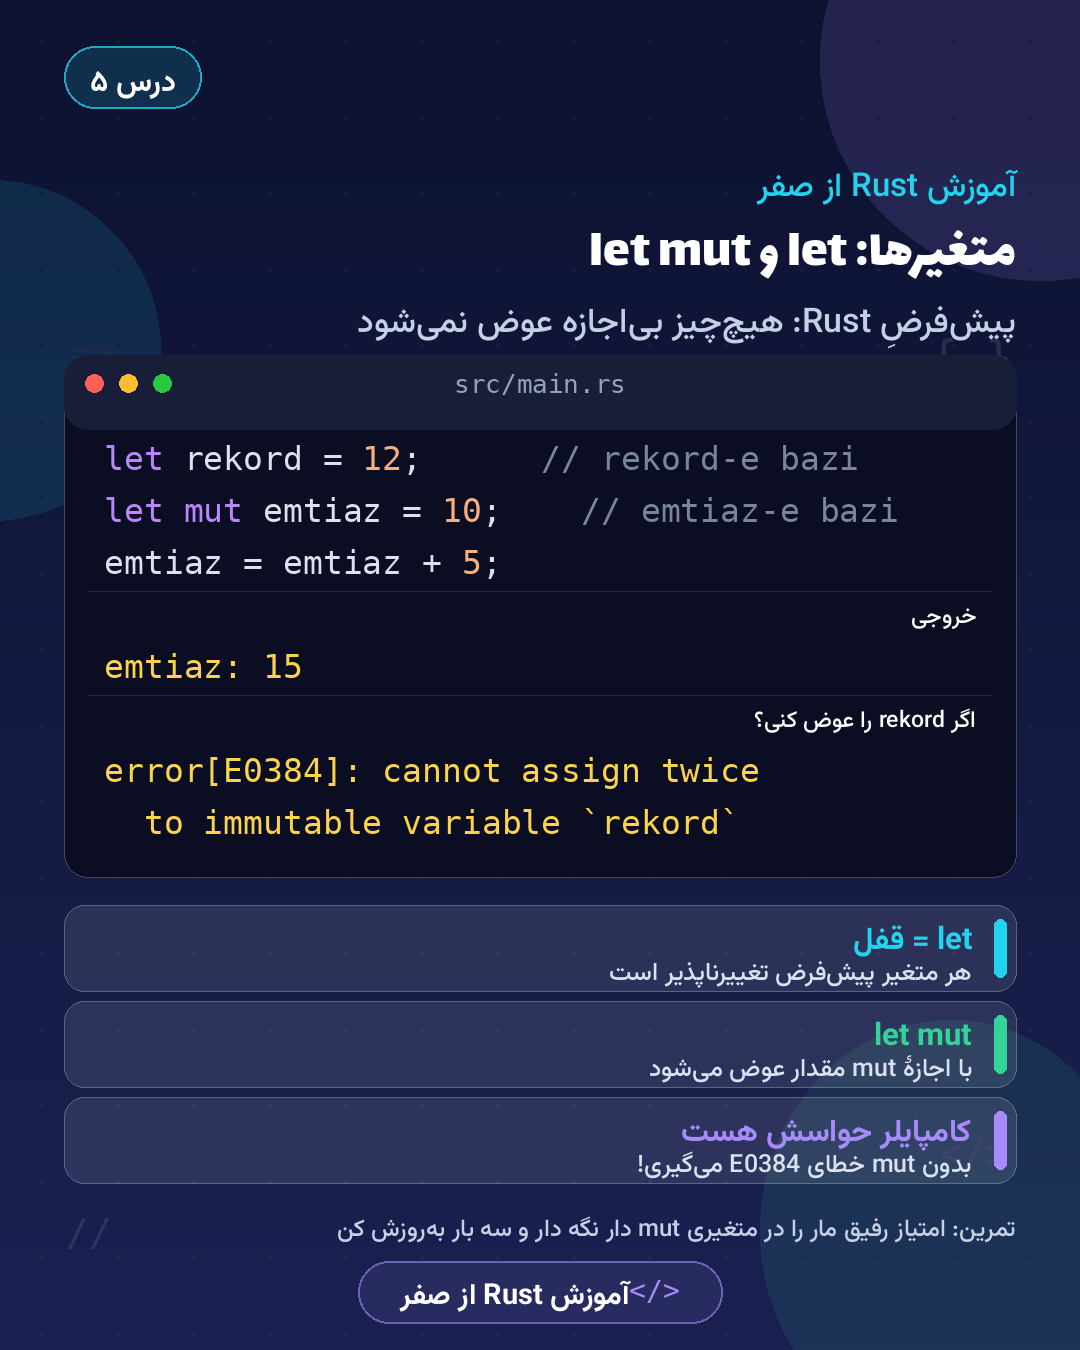
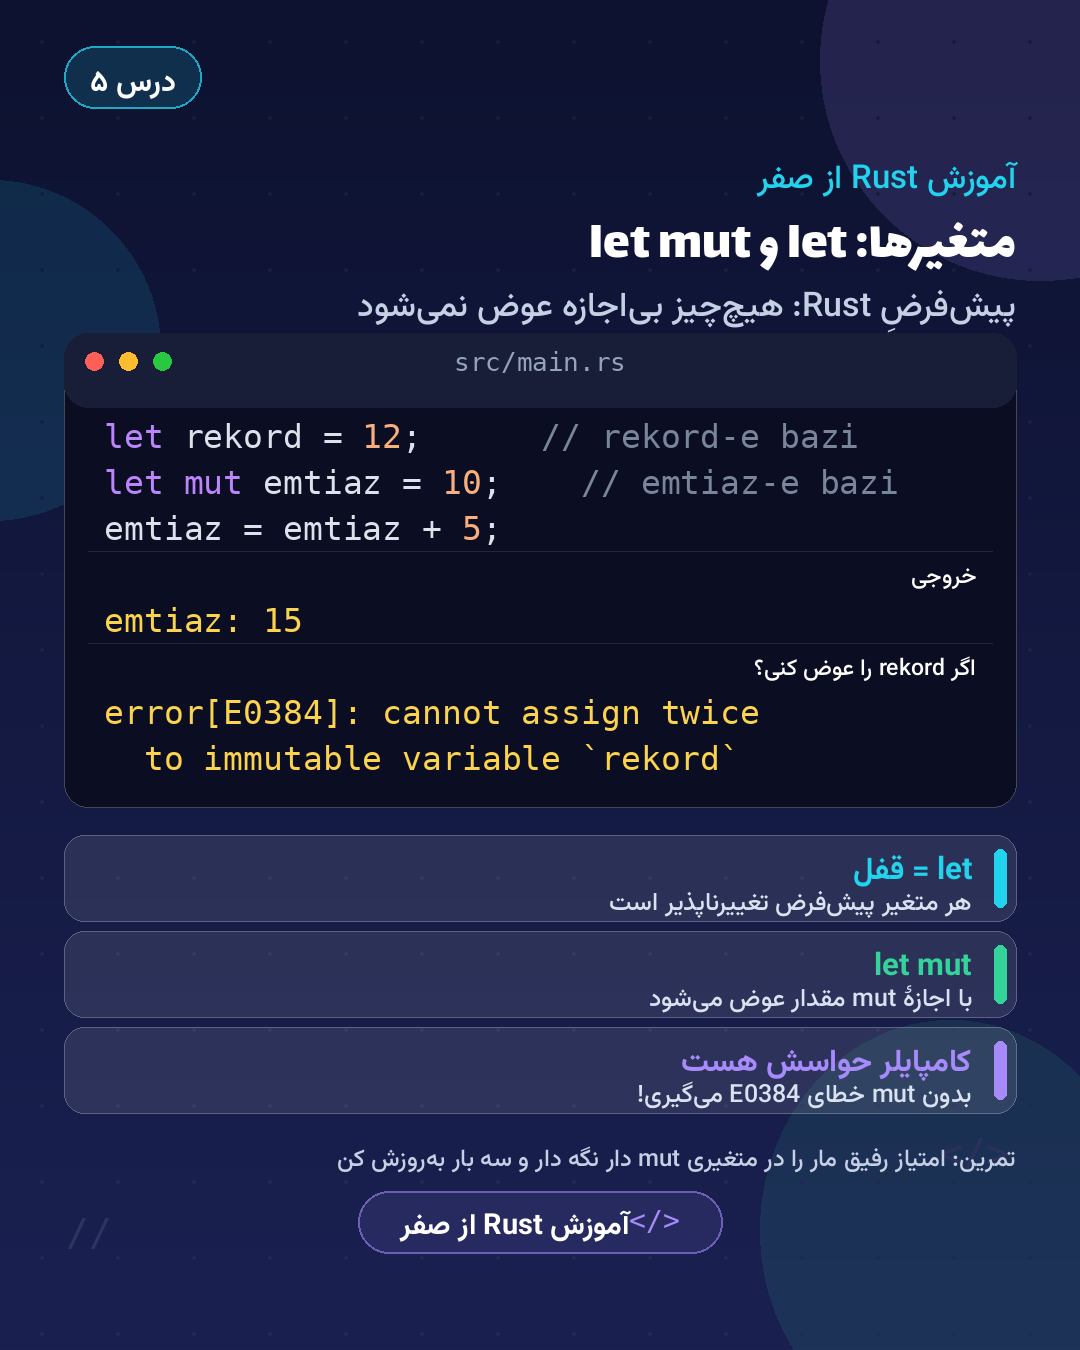
gardesh 20: khod-tarim (bootstrap env-restore + bashrc hook + 2 cron-e sobhgahi) + nam-e madrese zir-e onvan-e tamame poster-ha (tas-e malek) + halghe item-e post-e kharazmi (#moarrefi_moshahir) + rahnamaye-tag (sanad-e rasmi hestegh) + tozih tagvim dar plan.md

diff --git a/scripts/poster_lib.py b/scripts/poster_lib.py
@@ -42,6 +42,7 @@ CHANNEL = {
     "brand_name": "انجمن کدنویسی",
     "footer_label": "کانال انجمن کدنویسی",
     "handle": "@anjomanfaghihi",
+    "school": "مدرسهٔ شهید فقیهی",
 }
 LOGO_PATH = Path("")
 
@@ -54,6 +55,7 @@ def set_channel(cfg):
         "brand_name": cfg.get("brand_name", "انجمن کدنویسی"),
         "footer_label": cfg.get("footer_label", "کانال انجمن کدنویسی"),
         "handle": cfg.get("handle", "@anjomanfaghihi"),
+        "school": cfg.get("school", ""),
     }
     logo = cfg.get("_logo_path")
     LOGO_PATH = Path(logo) if logo else Path("")
@@ -324,14 +326,20 @@ def render(spec, out_path, brand=True):
     if spec.get("lesson_no"):
         lesson_chip(d, 46, spec["lesson_no"])
     # فاصلهٔ استاندارد بین ردیف بالا و متنها (اصلاح بازخورد: نزدیک نبودن برند به متن)
-    y = 46 + 62 + 54
+    y = 46 + 62 + 46
     rtl_right(d, spec["series_label"], font("fa_med", 33), ACCENT, W - MARGIN, y)
     y += 50
     tsize = spec.get("title_size", 62)
     rtl_right(d, spec["title"], font("fa_title", tsize), WHITE, W - MARGIN, y)
-    y += int(tsize * 1.22) + 20
+    y += int(tsize * 1.22) + 12
+    # ← بازخورد سردبیر (۱۴۰۵-۰۸-۰۲): «اسم زیر عنوان» — خط نام انجمن و مدرسه
+    # درست زیر عنوانِ همهٔ پوسترها (فقط نسخهٔ برند؛ نسخهٔ clean بدون نام میماند)
+    if brand and CHANNEL.get("school"):
+        rtl_right(d, f"{CHANNEL['brand_name']} | {CHANNEL['school']}",
+                  font("fa_med", 27), MUTED, W - MARGIN, y)
+        y += 34
     rtl_right(d, spec["subtitle"], font("fa_med", 34), SUB, W - MARGIN, y)
-    y += 58
+    y += 52
     sections = spec["sections"] if brand else spec.get("clean_sections", spec["sections"])
     for sec in sections:
         if sec["type"] == "code":
@@ -370,6 +378,8 @@ def spec_text(spec):
     if spec.get("lesson_no"):
         head += f" — درس {fa_num(spec['lesson_no'])}"
     L.append(head)
+    if CHANNEL.get("school"):
+        L.append(f"{CHANNEL['brand_name']} | {CHANNEL['school']}")
     L.append("")
     L.append(spec["subtitle"])
     L.append("")

diff --git a/channels/coding/content/queue/lessons/rust-dars-05-moteghayer/spec.py b/channels/coding/content/queue/lessons/rust-dars-05-moteghayer/spec.py
@@ -15,7 +15,7 @@ SPEC = {
     "subtitle": "پیشفرضِ Rust: هیچچیز بیاجازه عوض نمیشود",
     "clean_footer": "آموزش Rust از صفر",
     "sections": [
-        {"type": "code", "name": "src/main.rs", "lines": [
+        {"type": "code", "name": "src/main.rs", "lh": 46, "lines": [
             {"segs": [T("let", FN), T(" rekord = ", FG), T("12", NUM), T(";", FG), T("      // rekord-e bazi", CMT)]},
             {"segs": [T("let mut", FN), T(" emtiaz = ", FG), T("10", NUM), T(";", FG), T("    // emtiaz-e bazi", CMT)]},
             {"segs": [T("emtiaz = emtiaz + ", FG), T("5", NUM), T(";", FG)]},

diff --git a/channels/coding/content/plan.md b/channels/coding/content/plan.md
@@ -38,6 +38,10 @@
 هشتگ ثابت پای همه پستها: `#انجمن_کدنویسی`
 هشتگ موضوعی متناسب با موضوع هر پست در کپشن میآید.
 
+> **⚠ تصمیم سردبیر (۱۴۰۵-۰۸-۰۲):** هر پست «هشتگ مناسب آیتم» خودش را دارد
+> (مثل `#معرفی_مشاهیر` برای چهرهها) — جدول کامل: `docs/rahnamaye-tag.md`
+> (همان «راهنمای تگ» که شیوهنامه گفته با مستندات اثر ارسال شود).
+
 ---
 
 ## ۲. شمارهگذاری و مستندسازی طبق شیوهنامه
@@ -77,19 +81,19 @@
 
 ---
 
-## ۴. تقویم انتشار هفتگی (روزنگار)
+## ۴. تقویم انتشار هفتگی (روزنگار — نسخهٔ «روزی یک پست»)
 
-قاعده طلایی: **هر روز ۱ تا ۲ پست، حداکثر ۳ پست — هرگز بیشتر.**
+**⚠ تصمیم سردبیر (۱۴۰۵-۰۸-۰۱): «روزی یک پست از آیتمهای مختلف»** — تقویم قبلی
+(متنوع در شنبه/دوشنبه/پنجشنبه) لغو شد؛ حالا هر روز دقیقاً یک پست:
 
-| روز | ساعت ۱۰:۰۰ صبح | ساعت ۱۹:۰۰ عصر |
+| روز | ساعت | آیتم |
 |---|---|---|
-| شنبه | درس Rust (بعدی) | پست متنوع (ترویجی) |
-| یکشنبه | درس Rust (بعدی) | — |
-| دوشنبه | درس Rust (بعدی) | — |
-| سهشنبه | درس Rust (بعدی) | پست متنوع (رویداد/چالش) |
-| چهارشنبه | درس Rust (بعدی) | — |
-| پنجشنبه | درس Rust (بعدی) | پست متنوع (معرفی/اطلاعیه/خلاقانه) |
-| جمعه | — استراحت، مرور و پاسخ به تمرینها — | — |
+| شنبه تا پنجشنبه | ۱۰:۰۰ | درس Rust (صف `queue/lessons/`) |
+| جمعه | ۱۹:۰۰ | پست متنوع (صف `queue/variety/`) — جمعه بیدرس است |
+| روزهای مناسبت | ۰۹:۳۰ | پیام مناسبتی (گیت date.txt — استثنای نادرِ روز دوم) |
+| آخر هر ماه | ۱۷:۳۰ | نشریهٔ ماهانه (استثنای نادرِ روز دوم) |
+
+سقف ۳ پست در روز همیشه رعایت است؛ عادی = ۱ پست.
 
 - «درس Rust» از صف `content/queue/lessons/` و «پست متنوع» از `content/queue/variety/`
   بهنوبت از دستههای ترویجی/رویداد/معرفی/اطلاعیه/خلاقانه انتخاب میشود
@@ -123,8 +127,9 @@
 ## ۶. چکلیست پیش از انتشار هر پست
 
 1. تصویر برند + تصویر clean هر دو رندر و **بازبینی بصری** شده باشند (متن فارسی راستبهچپ درست، فاصلهها تمیز، متنهای پایین واضح)
+1-الف. **خط نام زیر عنوان** («انجمن کدنویسی | مدرسهٔ شهید فقیهی» — تصمیم سردبیر ۱۴۰۵-۰۸-۰۲) روی نسخهٔ برند هست و روی clean نیست
 2. متن فارسی تصویر در `text.md` بایگانی شده باشد
-3. کپشن: ۲–۳ جمله توضیح + لینک کانال (آدرس تأییدشدهٔ روز انتشار) + هشتگهای **موضوعی** — بدون نام دسته، بدون کد لاتین، بدون برچسب اداری
+3. کپشن: ۲–۳ جمله توضیح + لینک کانال (آدرس تأییدشدهٔ روز انتشار) + هشتگ پایه + **هشتگ آیتم طبق راهنمای تگ** + هشتگ موضوعی — بدون نام دسته، بدون کد لاتین، بدون برچسب اداری؛ حداکثر ۱۰۲۴ نویسه
 4. روی عکس و متن **هیچ اشارهٔ دستهبندی** نباشد (قاعدهٔ دائمی)
 5. `meta.json` با دستهٔ داخلی و ارجاع به بند شیوهنامه ثبت شده باشد
 6. آمار بهروز شده و همهچیز commit و push شده باشد

diff --git a/docs/rahnamaye-tag.md b/docs/rahnamaye-tag.md
@@ -1,0 +1,43 @@
+# راهنمای تگهای (#) کانال انجمن کدنویسی — سند رسمی هشتگگذاری
+
+**مبنای الزام در شیوهنامه (هشتمین دوره، ۱۴۰۵-۱۴۰۴):**
+- «در پیامهای ارسالی داخل کانال حتماً از تگ # مناسب استفاده شود، راهنمای تگهای
+  مورد استفاده در مستندات اثر ارسال شود.» (شرایط اختصاصی اثر)
+- نمونبرگ داوری: «نظم و انسجام سامانه — استفاده از تگ # برای دستهبندی مطالب» (۵ امتیاز)
+
+این سند همان «راهنمای تگ» است و در بستهٔ مستندات اثر ارائه میشود.
+**قاعدهٔ دائمی:** هشتگها همیشه *موضوعی*اند؛ نام دستهبندی داخلی (ترویجی، آموزشی،
+رویداد، اطلاعیه، خلاقانه) هرگز بهعنوان هشتگ یا متن روی عکس/کپشن نمیآید.
+
+## جدول هشتگ هر آیتم
+
+| نوع آیتم (بند شیوهنامه) | هشتگ ثابت آیتم | هشتگهای موضوعی مکمل |
+|---|---|---|
+| درس «Rust از صفر» (ترویج/آموزش — بند ۱) | `#آموزش_راست` | `#الگوریتم`، `#برنامه_نویسی` |
+| معرفی مشاهیر علم و کامپیوتر (بند ۱ — تولید محتوا) | `#معرفی_مشاهیر` | نام شخص (`#خوارزمی`) + حوزه (`#الگوریتم`) |
+| معرفی کتاب/منبع/سایت (بند ۵) | `#معرفی_کتاب` | نام کتاب/منبع |
+| خبر علمی/مسابقات (بند ۱) | `#خبر_کدنویسی` | `#مسابقات_کدنویسی` |
+| چالش و تمرین هفتگی (رویداد) | `#چالش_کدنویسی` | موضوع چالش (`#متغیرها`) |
+| فعالیت خلاقانه (بند ۴ — بازی، عکسنوشتهٔ خلاق) | `#فعالیت_خلاقانه` | `#بازی_مرورگری`، `#رفیق_مار` |
+| نشریهٔ ماهانه (بند ۲) | `#نشریه_انجمن` | شماره/ماه (`#آبان_۱۴۰۵`) |
+| پیام مناسبتی (جدول داوری: پیامهای مناسبتی) | `#مناسبت` | نام مناسبت (`#روز_کتاب`) |
+| گرایشهای مسابقات (معرفی) | `#مسابقات_کدنویسی` | `#طراحی_وب`، `#هوش_مصنوعی`، `#بازی_سازی`، `#دستگاه_های_هوشمند` |
+
+## قواعد اجرا
+
+1. **هشتگ پایه:** همهٔ پستها `#انجمن_کدنویسی` را دارند.
+2. **هشتگ آیتم:** هر پست دقیقاً «یک» هشتگ ثابت آیتم از جدول بالا دارد — همان
+   «هشتگ مناسب آیتم» طبق دستور سردبیر (۱۴۰۵-۰۸-۰۲).
+3. **هشتگ موضوعی:** ۱ تا ۳ هشتگ موضوعی مرتبط با محتوای همان پست.
+4. **سقف:** جمع هشتگها در هر پست ۳ تا ۵ عدد؛ بیشتر نشود (نظم داوری).
+5. **سازگاری:** هشتگها بدون نیمفاصله نوشته میشوند (`#معرفی_مشاهیر` نه
+   «#معرفیمشاهیر») و فارسیاند مگر نام علمی لاتین باشد.
+6. **بازبینی:** پیش از هر انتشار، کپشن با همین سند چک میشود؛ تغییر هشتگ آیتم
+   فقط با تصمیم سردبیر و با ویرایش همین سند.
+
+## پیوست — وضعیت اعمال روی پستهای منتشرشده
+
+- پست ۰۱۳ «خوارزمی؛ پدر الگوریتم» (پیام ۴۹، ۱۴۰۵-۰۸-۰۱): هشتگ آیتم
+  `#معرفی_مشاهیر` با editMessageCaption به کپشن زنده اضافه شد (۴۵۹ نویسه ≤۱۰۲۴)
+  و کپشن آرشیو همگام شد.
+- پستهای آینده: هشتگ آیتم از صفساز طبق جدول بالا میآید.

diff --git a/channels/coding/content/queue/mansabet/abane13-roz-daneshamooz/text.md b/channels/coding/content/queue/mansabet/abane13-roz-daneshamooz/text.md
@@ -1,5 +1,6 @@
 # روز دانشآموز
 ۱۳ آبان
+انجمن کدنویسی | مدرسهٔ شهید فقیهی
 
 تقدیم به دانشآموزان کوشای ایرانزمین
 
@@ -8,11 +9,9 @@
 - **تو هم میتوانی**: هر برنامهنویس بزرگی روزی دانشآموز بود و اولین خطش «Salam» بود
 
 فایل «13-aban.rs»:
-```python
+```rust
 let ayande = "دستهای تو";
 // آینده را همانها میسازند که امروز یاد میگیرند
 ```
 
 نکته: ۱۳ آبان ۱۴۰۵ — روز دانشآموز گرامی باد
-
-دستهٔ محتوا: اطلاعیه

diff --git a/channels/coding/content/queue/mansabet/shabe-yalda/text.md b/channels/coding/content/queue/mansabet/shabe-yalda/text.md
@@ -1,5 +1,6 @@
 # شب یلدا
 ۳۰ آذر
+انجمن کدنویسی | مدرسهٔ شهید فقیهی
 
 بلندترین شب سال — گرم با هندوانه، حافظ و یک چالش کد
 
@@ -8,12 +9,10 @@
 - **مرور سال**: آخر سال میلادی نزدیک است؛ ببین از مهر تا حالا چه یاد گرفتی و چه ساختی
 
 فایل «yalda.rs»:
-```python
+```rust
 let shab = "deraz";
 let kod = "garm";
 // شب بلند است، اما کدنویس از آن نمیترسد
 ```
 
 نکته: یلدا مبارک — ۳۰ آذر ۱۴۰۵
-
-دستهٔ محتوا: اطلاعیه

diff --git a/channels/coding/content/queue/mansabet/fatemeh-sa-1448/text.md b/channels/coding/content/queue/mansabet/fatemeh-sa-1448/text.md
@@ -1,5 +1,6 @@
 # شهادت حضرت فاطمهٔ زهرا (س)
 ۳ جمادیالثانی ۱۴۴۸
+انجمن کدنویسی | مدرسهٔ شهید فقیهی
 
 تسلیت به محضر امام زمان (عج) و همهٔ شیعیان
 
@@ -8,5 +9,3 @@
 - **به یاد او**: به رسم احترام، امروز کانال انجمن پرشور نیست؛ فقط این یادبود
 
 نکته: التماس دعا — انجمن علمیپژوهشی کدنویسی
-
-دستهٔ محتوا: اطلاعیه

diff --git a/channels/coding/content/queue/mansabet/abane24-roz-ketab/text.md b/channels/coding/content/queue/mansabet/abane24-roz-ketab/text.md
@@ -1,5 +1,6 @@
 # روز کتاب و کتابخوانی
 ۲۴ آبان
+انجمن کدنویسی | مدرسهٔ شهید فقیهی
 
 حتی اگر کتاب، صفحههایش روی مانیتور باشد
 
@@ -9,5 +10,3 @@
 - **پیشنهاد شما**: کتاب خوبی میشناسی؟ در کانال معرفیاش کن؛ با نام تو منتشر میشود
 
 نکته: ۲۴ آبان ۱۴۰۵ — روز کتاب و کتابخوانی
-
-دستهٔ محتوا: اطلاعیه

diff --git a/channels/coding/content/queue/variety/poster-gorayesh/text.md b/channels/coding/content/queue/variety/poster-gorayesh/text.md
@@ -1,5 +1,6 @@
 # پنج مسیر رقابت
 ویژهٔ مسابقات کدنویسی
+انجمن کدنویسی | مدرسهٔ شهید فقیهی
 
 گرایشهای مسابقات کدنویسی جشنواره
 
@@ -10,5 +11,3 @@
 - **بازیسازی**: بازی آموزشی با موتورهای بازیسازی
 
 نکته: تیم دو نفره — از یک منطقه، یک دوره و یک جنسیت (شرایط عمومی مسابقات)
-
-دستهٔ محتوا: ترویجی

diff --git a/channels/coding/content/queue/mansabet/azare16-roz-daneshjoo/text.md b/channels/coding/content/queue/mansabet/azare16-roz-daneshjoo/text.md
@@ -1,5 +1,6 @@
 # روز دانشجو
 ۱۶ آذر
+انجمن کدنویسی | مدرسهٔ شهید فقیهی
 
 از نیمکت مدرسه تا صندلی دانشگاه — یک راه پیوسته
 
@@ -9,5 +10,3 @@
 - **شرط ورود**: کنکور ریاضی و تجربی؛ برنامهنویسی همین حالا هم برای درسهایت مفید است
 
 نکته: ۱۶ آذر ۱۴۰۵ — روز دانشجو
-
-دستهٔ محتوا: اطلاعیه

diff --git a/channels/coding/content/queue/variety/manabe-rasmi/text.md b/channels/coding/content/queue/variety/manabe-rasmi/text.md
@@ -1,5 +1,6 @@
 # منابع رسمی خبر
 اطلاعرسانی انجمن کدنویسی
+انجمن کدنویسی | مدرسهٔ شهید فقیهی
 
 تازههای مسابقات را از کجا بفهمیم؟
 
@@ -9,5 +10,3 @@
 - **اصول ما**: دقت، صبر و اعتماد فقط به منبع رسمی
 
 نکته: هر خبر مهم، با هشتگ اطلاعیه اینجا اعلام میشود
-
-دستهٔ محتوا: اطلاعیه

diff --git a/channels/coding/content/queue/lessons/rust-dars-05-moteghayer/text.md b/channels/coding/content/queue/lessons/rust-dars-05-moteghayer/text.md
@@ -1,5 +1,6 @@
 # متغیرها: let و let mut
 آموزش Rust از صفر — درس ۵
+انجمن کدنویسی | مدرسهٔ شهید فقیهی
 
 پیشفرضِ Rust: هیچچیز بیاجازه عوض نمیشود
 
